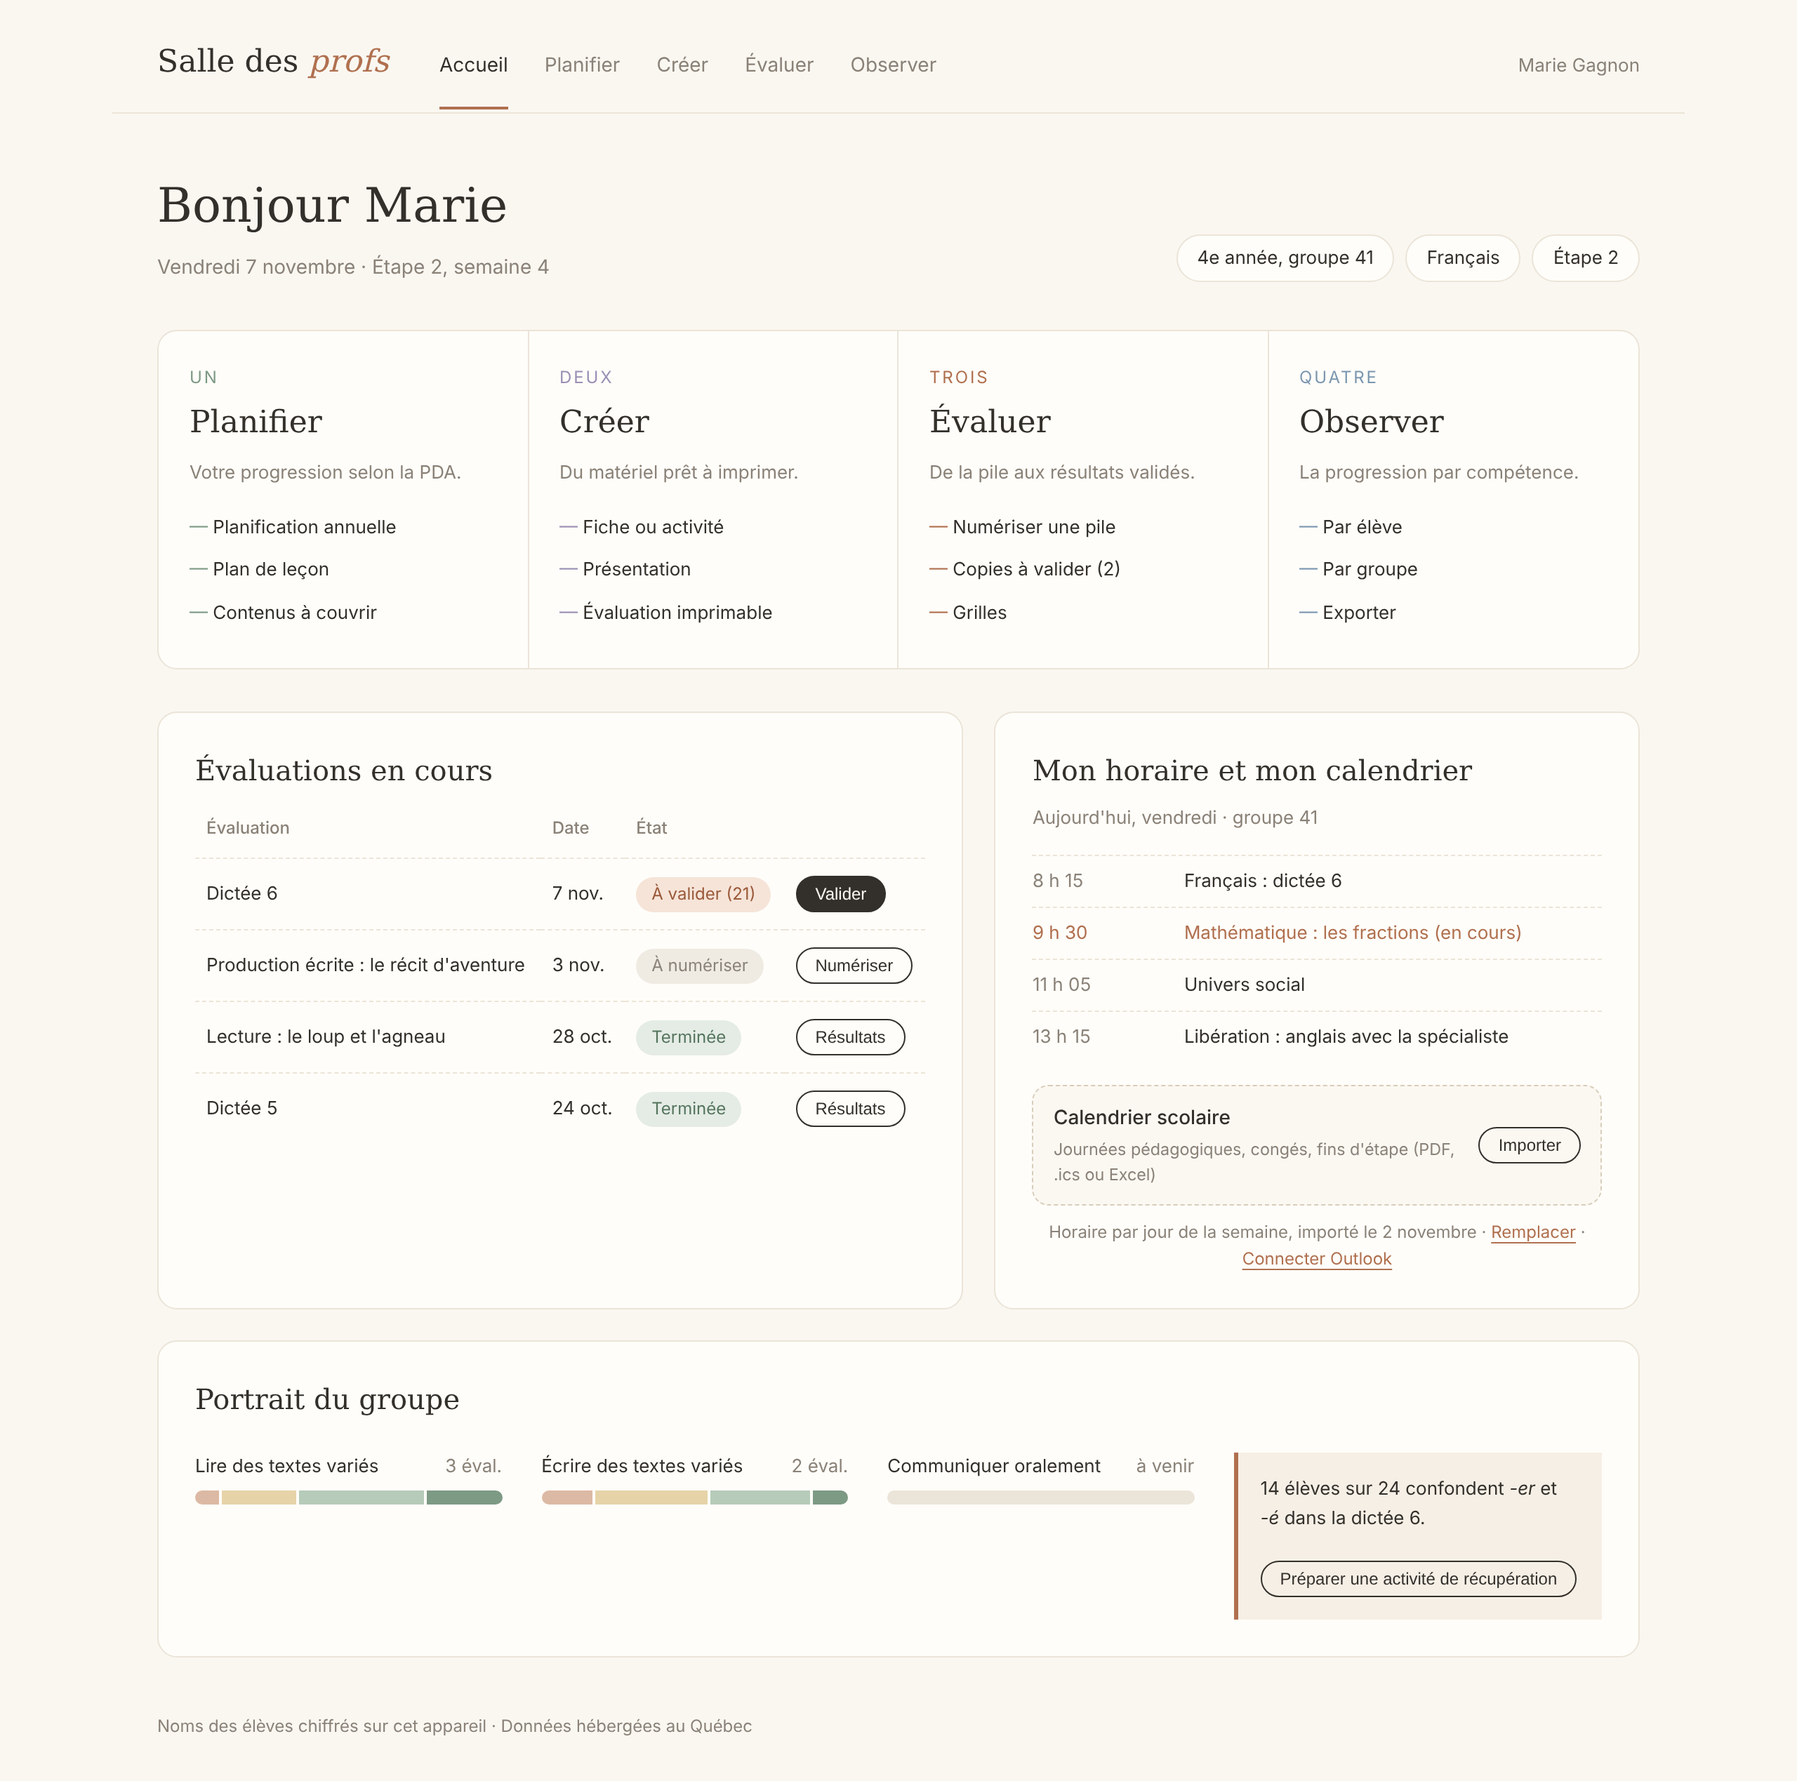
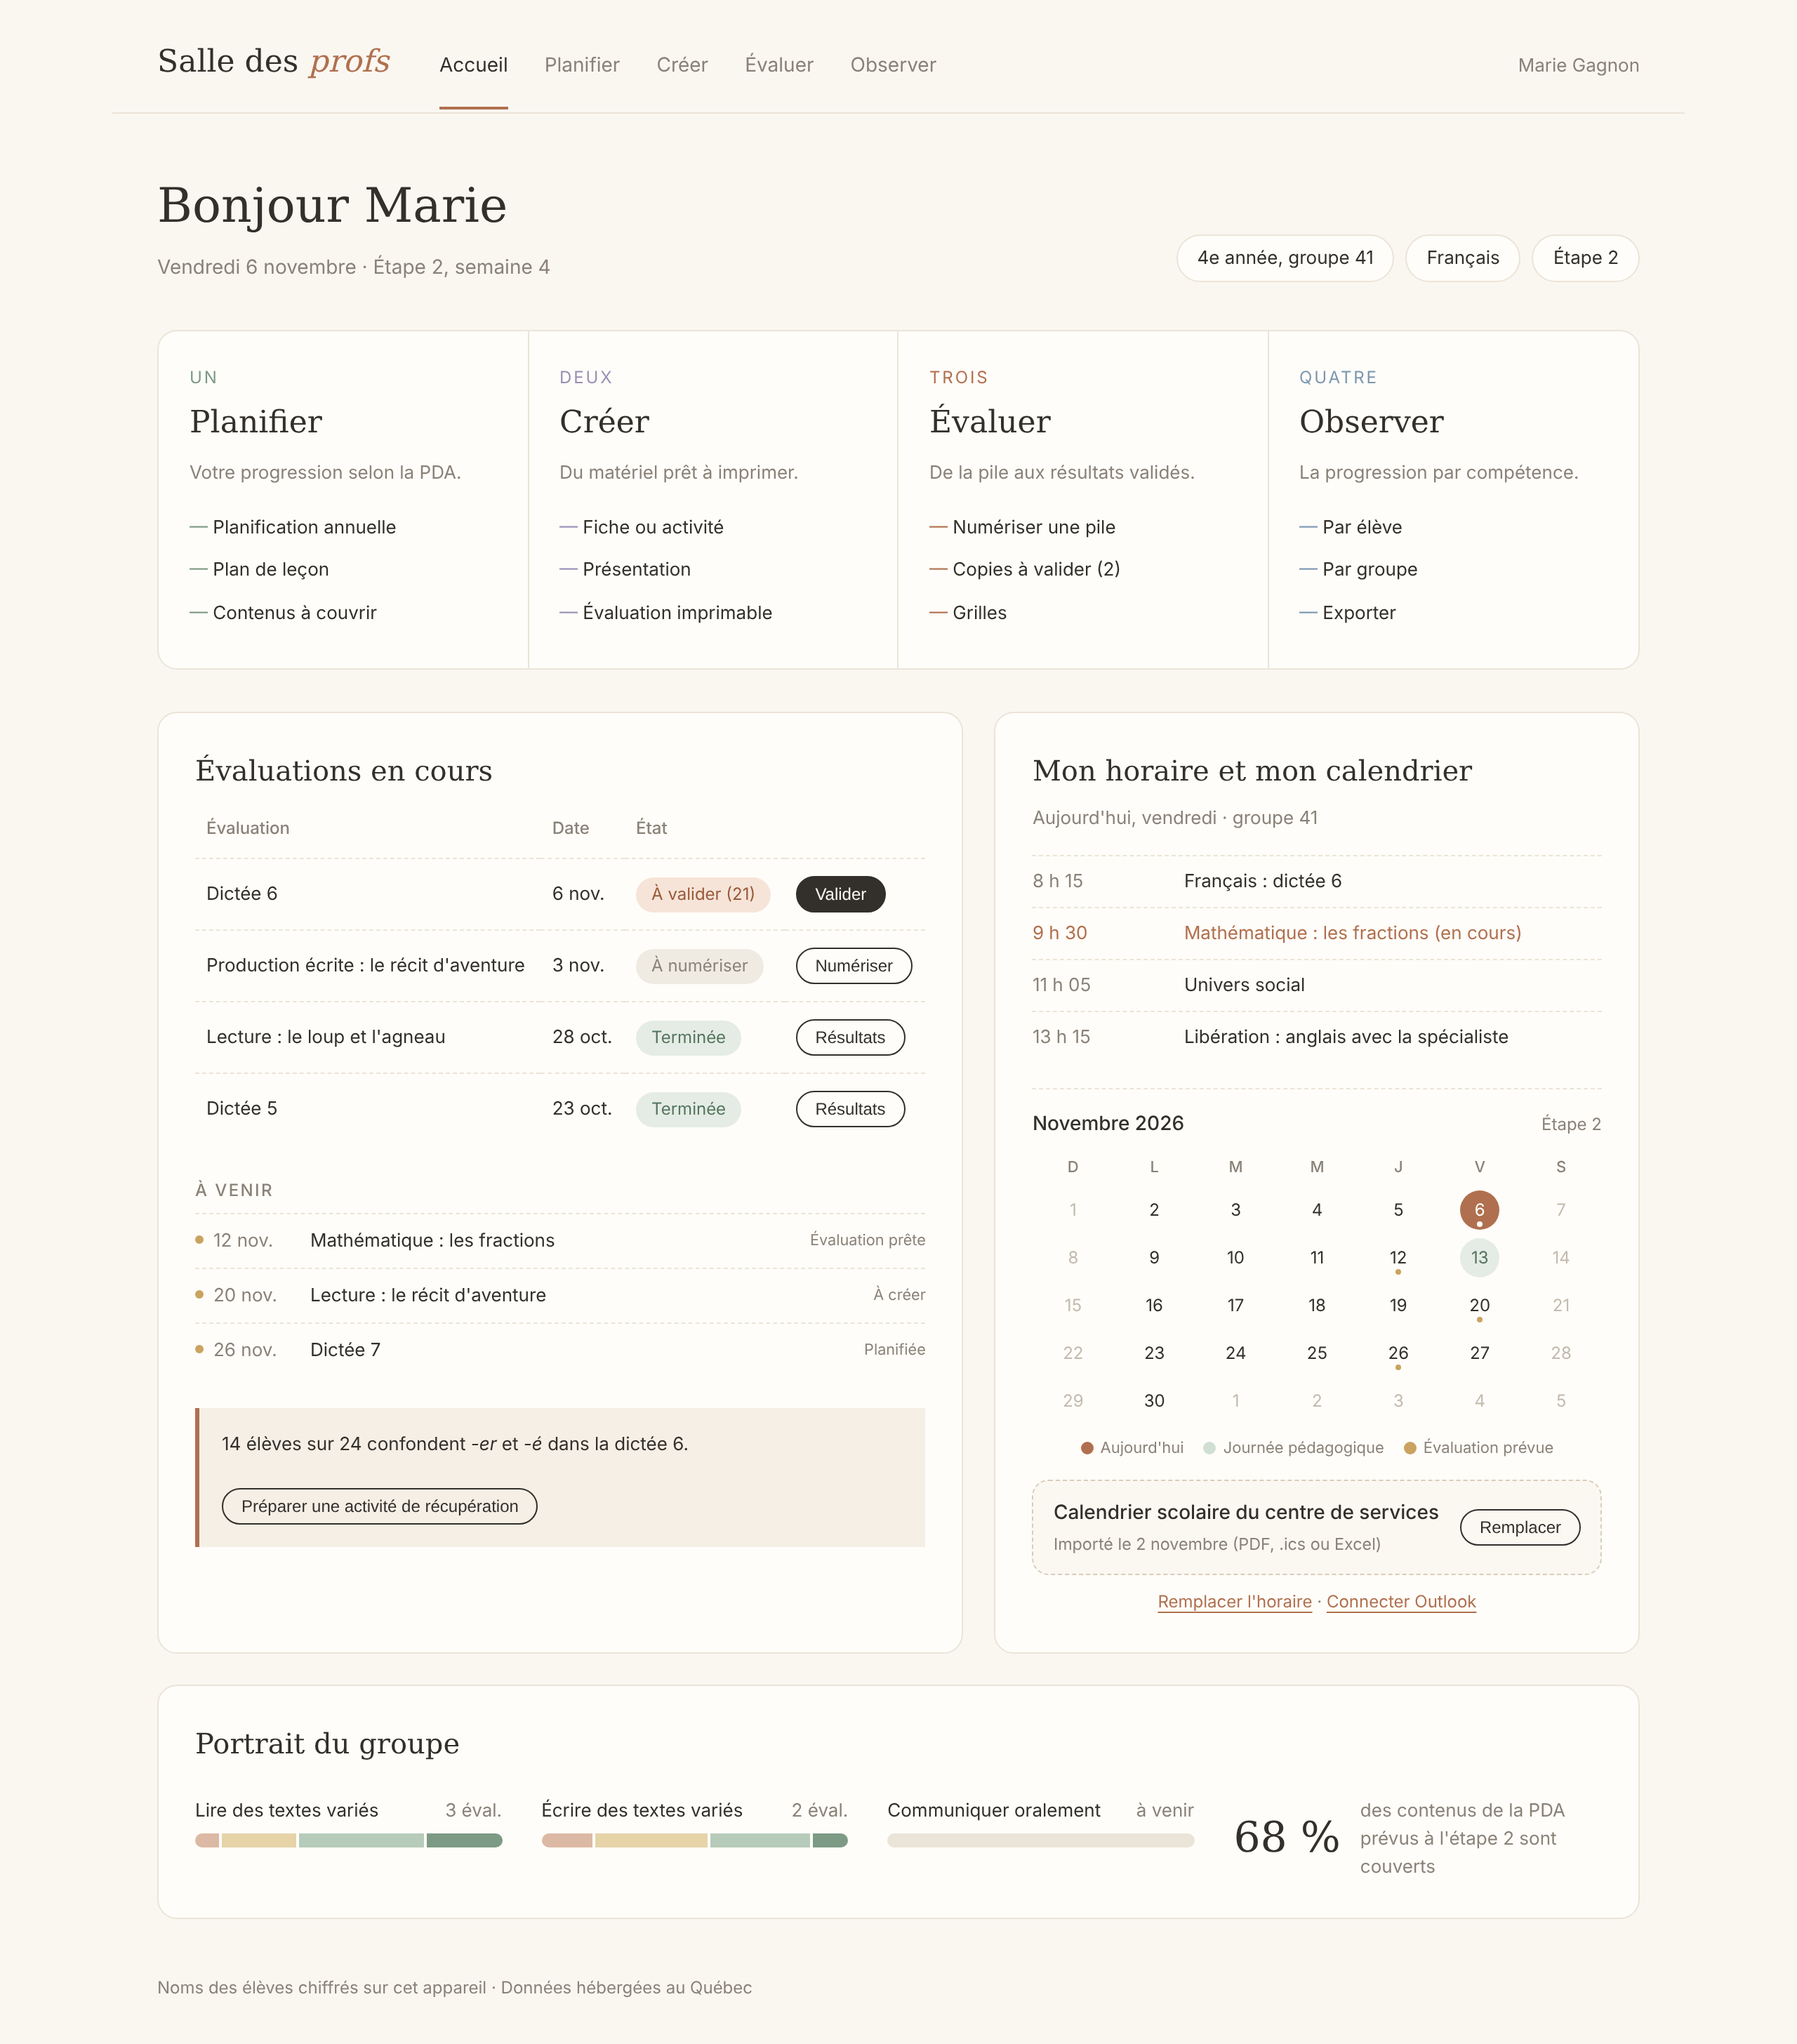
Maquette retenue : petit calendrier du mois et évaluations à venir
- Calendrier sous l'horaire : aujourd'hui, journées pédagogiques, évaluations prévues
- Section « À venir » reliée aux points du calendrier
- Dates cohérentes avec 2026 (vendredi 6 novembre)

Claude-Session: https://claude.ai/code/session_017jvmmKeYNJQLHcQjEP26Zw

diff --git a/maquettes/accueil-e-carnet-retenue.html b/maquettes/accueil-e-carnet-retenue.html
@@ -49,12 +49,31 @@ td:nth-child(2),td:nth-child(3),td:nth-child(4){white-space:nowrap}
 .portrait{margin-top:22px;display:grid;grid-template-columns:1fr 1fr 1fr 1.2fr;gap:28px;align-items:start}
 .portrait h3{grid-column:1/-1;margin:0 0 -6px}
 .portrait .note{margin:0}
+
+.cal{margin-top:18px;border-top:1px dashed var(--ligne);padding-top:14px}
+.cal .tete{display:flex;justify-content:space-between;align-items:baseline;margin-bottom:8px}
+.cal .tete b{font-weight:500}.cal .tete span{color:var(--doux);font-size:12px}
+.cal table{border-collapse:collapse;width:100%}.cal th,.cal td{border:0;padding:3px 0;text-align:center;font-size:12px;white-space:nowrap}
+.cal th{color:var(--doux);font-weight:500;font-size:11px;padding-bottom:5px}
+.cal td span{display:inline-grid;place-items:center;width:28px;height:28px;border-radius:50%;position:relative}
+.cal td.we span,.cal td.hors span{color:#c3baae}
+.cal td.auj span{background:var(--terre);color:#fff}
+.cal td.ped span{background:#e4ece5;color:#55745d}
+.cal td.ev span:after{content:"";position:absolute;bottom:2px;left:50%;width:4px;height:4px;margin-left:-2px;border-radius:50%;background:var(--ble)}
+.cal td.auj.ev span:after{background:#fff}
+.legende{display:flex;gap:14px;font-size:11px;color:var(--doux);margin-top:8px;justify-content:center}
+.legende i{display:inline-block;width:9px;height:9px;border-radius:50%;margin-right:5px;vertical-align:-1px}
+.couv{display:flex;align-items:center;gap:14px;font-size:13px;color:var(--doux)}.couv b{white-space:nowrap;font-size:30px;font-weight:400;color:var(--encre);font-family:Georgia,"DejaVu Serif",serif}
+.avenir{margin-top:24px}.avenir h4{margin:0 0 6px;font-size:12px;letter-spacing:.1em;text-transform:uppercase;color:var(--doux);font-weight:500}
+.prevu{display:grid;grid-template-columns:70px 1fr auto;gap:12px;align-items:center;padding:9px 0;border-top:1px dashed var(--ligne);font-size:13px}
+.prevu .d{color:var(--doux);white-space:nowrap}.prevu .d:before{content:"";display:inline-block;width:6px;height:6px;border-radius:50%;background:var(--ble);margin-right:7px;vertical-align:2px}
+.prevu small{color:var(--doux)}
 </style></head><body>
 <header><div class="logo serif">Salle des <i>profs</i></div>
 <nav><a class="on" href="#">Accueil</a><a href="#">Planifier</a><a href="#">Créer</a><a href="#">Évaluer</a><a href="#">Observer</a></nav>
 <div class="moi">Marie Gagnon</div></header>
 <main>
-<div class="salut"><div><h1 class="serif">Bonjour Marie</h1><p>Vendredi 7 novembre · Étape 2, semaine 4</p></div>
+<div class="salut"><div><h1 class="serif">Bonjour Marie</h1><p>Vendredi 6 novembre · Étape 2, semaine 4</p></div>
 <div class="filtre"><span>4e année, groupe 41</span><span>Français</span><span>Étape 2</span></div></div>
 <div class="volets">
 <div class="volet" style="--c:var(--sauge)"><div class="n">Un</div><h2 class="serif">Planifier</h2><p>Votre progression selon la PDA.</p><a href="#">Planification annuelle</a><a href="#">Plan de leçon</a><a href="#">Contenus à couvrir</a></div>
@@ -65,25 +84,32 @@ td:nth-child(2),td:nth-child(3),td:nth-child(4){white-space:nowrap}
 <div class="deux">
 <div class="carte"><h3 class="serif">Évaluations en cours</h3>
 <table><tr><th>Évaluation</th><th>Date</th><th>État</th><th></th></tr>
-<tr><td>Dictée 6</td><td>7 nov.</td><td><span class="etat e1">À valider (21)</span></td><td><button class="btn plein petit">Valider</button></td></tr>
+<tr><td>Dictée 6</td><td>6 nov.</td><td><span class="etat e1">À valider (21)</span></td><td><button class="btn plein petit">Valider</button></td></tr>
 <tr><td>Production écrite : le récit d'aventure</td><td>3 nov.</td><td><span class="etat e3">À numériser</span></td><td><button class="btn petit">Numériser</button></td></tr>
 <tr><td>Lecture : le loup et l'agneau</td><td>28 oct.</td><td><span class="etat e2">Terminée</span></td><td><button class="btn petit">Résultats</button></td></tr>
-<tr><td>Dictée 5</td><td>24 oct.</td><td><span class="etat e2">Terminée</span></td><td><button class="btn petit">Résultats</button></td></tr>
-</table></div>
+<tr><td>Dictée 5</td><td>23 oct.</td><td><span class="etat e2">Terminée</span></td><td><button class="btn petit">Résultats</button></td></tr>
+</table>
+<div class="avenir"><h4>À venir</h4>
+<div class="prevu"><span class="d">12 nov.</span><span>Mathématique : les fractions</span><small>Évaluation prête</small></div>
+<div class="prevu"><span class="d">20 nov.</span><span>Lecture : le récit d'aventure</span><small>À créer</small></div>
+<div class="prevu"><span class="d">26 nov.</span><span>Dictée 7</span><small>Planifiée</small></div>
+</div>
+<div class="note" style="margin-top:22px">14 élèves sur 24 confondent <i>-er</i> et <i>-é</i> dans la dictée 6.<br><br><button class="btn petit">Préparer une activité de récupération</button></div></div>
 <div class="carte horaire"><h3 class="serif">Mon horaire et mon calendrier</h3>
 <div class="sous">Aujourd'hui, vendredi · groupe 41</div>
 <div class="periode"><span>8 h 15</span>Français : dictée 6</div>
 <div class="periode maint"><span>9 h 30</span>Mathématique : les fractions (en cours)</div>
 <div class="periode"><span>11 h 05</span>Univers social</div>
 <div class="periode"><span>13 h 15</span>Libération : anglais avec la spécialiste</div>
-<div class="depot compact"><div><b>Calendrier scolaire</b><small>Journées pédagogiques, congés, fins d'étape (PDF, .ics ou Excel)</small></div><button class="btn petit">Importer</button></div>
-<div class="ou">Horaire par jour de la semaine, importé le 2 novembre · <a class="lien" href="#">Remplacer</a> · <a class="lien" href="#">Connecter Outlook</a></div>
+<div class="cal"><div class="tete"><b>Novembre 2026</b><span>Étape 2</span></div><table><tr><th>D</th><th>L</th><th>M</th><th>M</th><th>J</th><th>V</th><th>S</th></tr><tr><td class="we"><span>1</span></td><td class=""><span>2</span></td><td class=""><span>3</span></td><td class=""><span>4</span></td><td class=""><span>5</span></td><td class="auj ev"><span>6</span></td><td class="we"><span>7</span></td></tr><tr><td class="we"><span>8</span></td><td class=""><span>9</span></td><td class=""><span>10</span></td><td class=""><span>11</span></td><td class="ev"><span>12</span></td><td class="ped"><span>13</span></td><td class="we"><span>14</span></td></tr><tr><td class="we"><span>15</span></td><td class=""><span>16</span></td><td class=""><span>17</span></td><td class=""><span>18</span></td><td class=""><span>19</span></td><td class="ev"><span>20</span></td><td class="we"><span>21</span></td></tr><tr><td class="we"><span>22</span></td><td class=""><span>23</span></td><td class=""><span>24</span></td><td class=""><span>25</span></td><td class="ev"><span>26</span></td><td class=""><span>27</span></td><td class="we"><span>28</span></td></tr><tr><td class="we"><span>29</span></td><td class=""><span>30</span></td><td class="hors"><span>1</span></td><td class="hors"><span>2</span></td><td class="hors"><span>3</span></td><td class="hors"><span>4</span></td><td class="hors"><span>5</span></td></tr></table><div class="legende"><span><i style="background:var(--terre)"></i>Aujourd'hui</span><span><i style="background:#cfe0d2"></i>Journée pédagogique</span><span><i style="background:var(--ble)"></i>Évaluation prévue</span></div></div>
+<div class="depot compact" style="margin-top:14px"><div><b>Calendrier scolaire du centre de services</b><small>Importé le 2 novembre (PDF, .ics ou Excel)</small></div><button class="btn petit">Remplacer</button></div>
+<div class="ou"><a class="lien" href="#">Remplacer l'horaire</a> · <a class="lien" href="#">Connecter Outlook</a></div>
 </div></div>
 <div class="carte portrait"><h3 class="serif">Portrait du groupe</h3>
 <div class="comp"><div class="l">Lire des textes variés<span>3 éval.</span></div><div class="barre"><i class="k1" style="width:8%"></i><i class="k2" style="width:25%"></i><i class="k3" style="width:42%"></i><i class="k4" style="width:25%"></i></div></div>
 <div class="comp"><div class="l">Écrire des textes variés<span>2 éval.</span></div><div class="barre"><i class="k1" style="width:17%"></i><i class="k2" style="width:38%"></i><i class="k3" style="width:33%"></i><i class="k4" style="width:12%"></i></div></div>
 <div class="comp"><div class="l">Communiquer oralement<span>à venir</span></div><div class="barre" style="background:var(--ligne)"></div></div>
-<div class="note">14 élèves sur 24 confondent <i>-er</i> et <i>-é</i> dans la dictée 6.<br><br><button class="btn petit">Préparer une activité de récupération</button></div>
+<div class="couv"><b>68 %</b><span>des contenus de la PDA<br>prévus à l'étape 2 sont couverts</span></div>
 </div>
 </main>
 <footer>Noms des élèves chiffrés sur cet appareil · Données hébergées au Québec</footer>

diff --git a/docs/liste-de-verification.md b/docs/liste-de-verification.md
@@ -54,6 +54,7 @@
   - [ ] Horaire **par jour de la semaine** par défaut (titulaires du primaire) ; cycle de 9 ou 10 jours en option (spécialistes, secondaire)
   - [ ] Importer l'horaire : PDF, Excel ou photo, lu par l'IA du circuit Création (aucune donnée d'élève)
   - [ ] Importer le calendrier scolaire du centre de services (journées pédagogiques, congés, fins d'étape) : PDF, .ics ou Excel
+  - [ ] Petit calendrier du mois sous l'horaire : aujourd'hui, journées pédagogiques, évaluations prévues (reliées à la liste « À venir »)
   - [ ] Option « Connecter Outlook » plus tard : demande la permission Calendars.Read, donc une approbation de plus pour les TI
 
 ## Fonctionnalités clés
